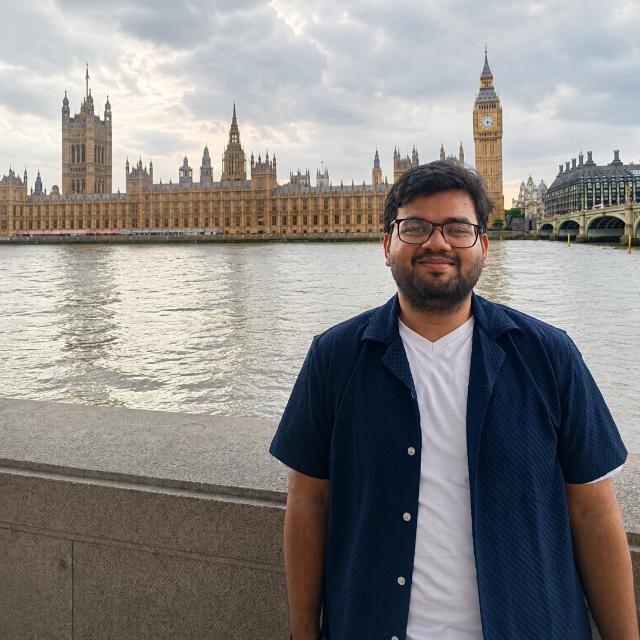
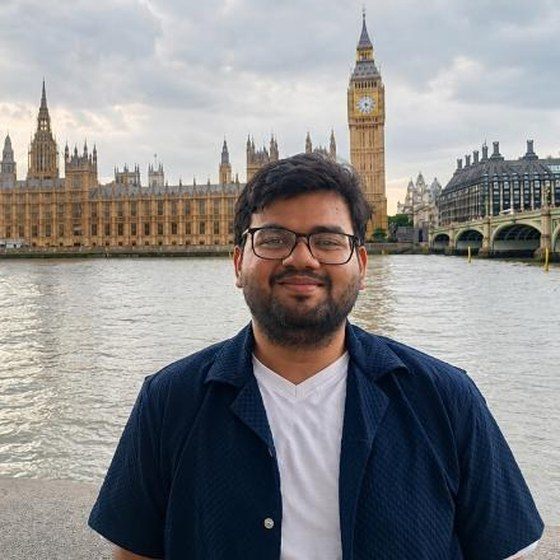
Fix the portrait crop, move two papers to the right pages
The img height attribute was acting as a presentational hint that CSS
never overrode, so the box was 208x640 rather than square and object-fit
cropped a vertical strip out of the middle of the photo. Pin height:auto
so only the aspect-ratio drives it.

Also crop portrait.jpg to a square centred on the subject, and:
- Known by Construction is safety work, not capability
- the ocean temperature forecasting paper is capability work

diff --git a/capability.html b/capability.html
@@ -83,22 +83,6 @@ if(t==="dark"||t==="light")document.documentElement.setAttribute("data-theme",t)
         contribute independently to downstream quality.</p>
     </article>
 
-    <h2>Under review</h2>
-
-    <article class="pub">
-        <h3>Known by Construction</h3>
-        <span class="venue"><span class="status">Submitted &mdash; equal co-contributor</span></span>
-        <p class="authors"><span class="me">Shivam Dubey</span></p>
-        <p class="abstract">Model-state instrument calibration.
-        <!-- EDIT: a sentence or two on what this one does, once it is public.
-             Also: is this Lexsi work? If not, move it to safety.html. --></p>
-    </article>
-
-    <h2>Related work elsewhere</h2>
-
-    <!-- EDIT: this one is not Lexsi as far as I can tell - it is on the page
-         because it is capability rather than safety work. Move or delete it
-         if that is wrong. -->
     <article class="pub">
         <h3>Physics-Informed Neural Operators with Multi-Method Explainability for Ocean Temperature Prediction</h3>
         <span class="venue">AAAI 2026 &middot; XAI4Science Workshop <span class="status">&mdash; sole author</span></span>

diff --git a/safety.html b/safety.html
@@ -139,6 +139,16 @@ if(t==="dark"||t==="light")document.documentElement.setAttribute("data-theme",t)
     channel can be evaded. Two papers are under review at NeurIPS 2026
     workshops.</p>
 
+    <h2>Under review</h2>
+
+    <article class="pub">
+        <h3>Known by Construction</h3>
+        <span class="venue"><span class="status">Submitted &mdash; equal co-contributor</span></span>
+        <p class="authors"><span class="me">Shivam Dubey</span></p>
+        <p class="abstract">Model-state instrument calibration.
+        <!-- EDIT: a sentence or two on what this one does, once it is public. --></p>
+    </article>
+
     <h2>Preprints and projects</h2>
 
     <article class="pub informal">

diff --git a/index.html b/index.html
@@ -77,7 +77,7 @@ if(t==="dark"||t==="light")document.documentElement.setAttribute("data-theme",t)
         <div class="bio-side">
             <img id="portrait" src="portrait.jpg"
                  alt="Shivam Dubey standing by the Thames, with the Palace of Westminster behind"
-                 width="640" height="640">
+                 width="560" height="560">
             <!-- EDIT: a caption if you want one, or delete this line. -->
             <p class="caption">London, 2026.</p>
 

diff --git a/cv.html b/cv.html
@@ -174,7 +174,7 @@ if(t==="dark"||t==="light")document.documentElement.setAttribute("data-theme",t)
     <ul class="entries">
         <li>
             <span class="date">2026</span>
-            <span class="what"><a href="capability.html">Known by Construction</a>
+            <span class="what"><a href="safety.html">Known by Construction</a>
                 <span class="note">Model-state instrument calibration. Submitted. Equal co-contributor</span></span>
         </li>
         <li>

diff --git a/main.css b/main.css
@@ -267,6 +267,10 @@ hr { margin: 3rem auto; border: 0; border-top: 1px solid var(--rule); max-width:
 
 #portrait {
     width: 100%;
+    /* height:auto is load-bearing: without it the img's height attribute
+       wins as a presentational hint, the box stops being square, and
+       object-fit crops a vertical strip out of the middle of the photo. */
+    height: auto;
     display: block;
     aspect-ratio: 1 / 1;
     object-fit: cover;
